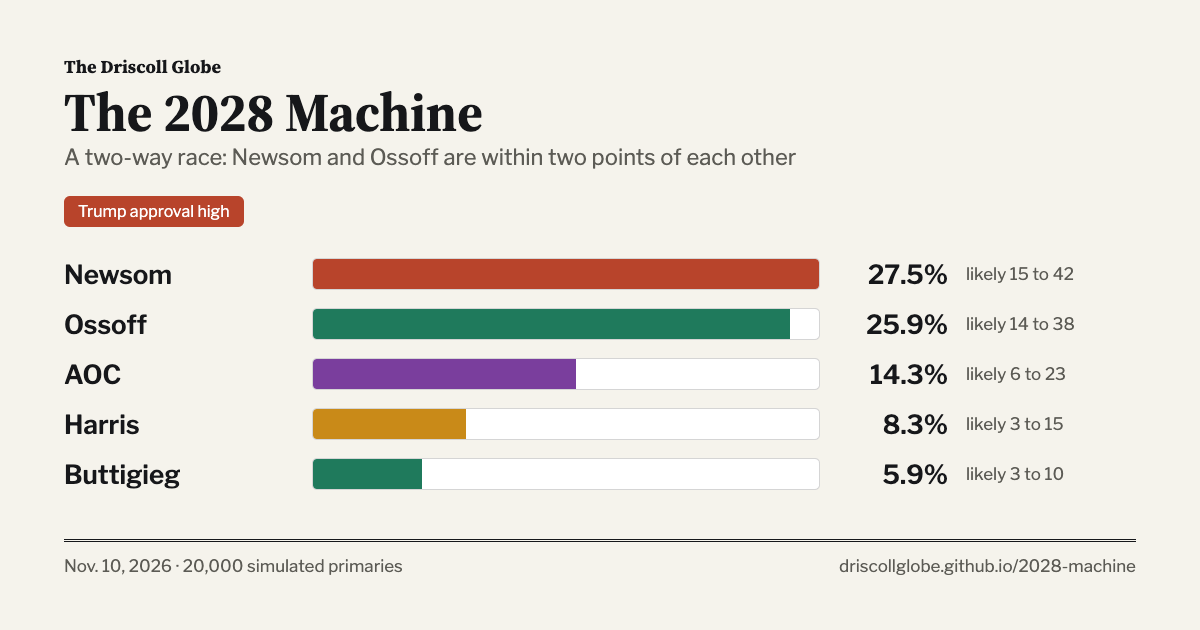
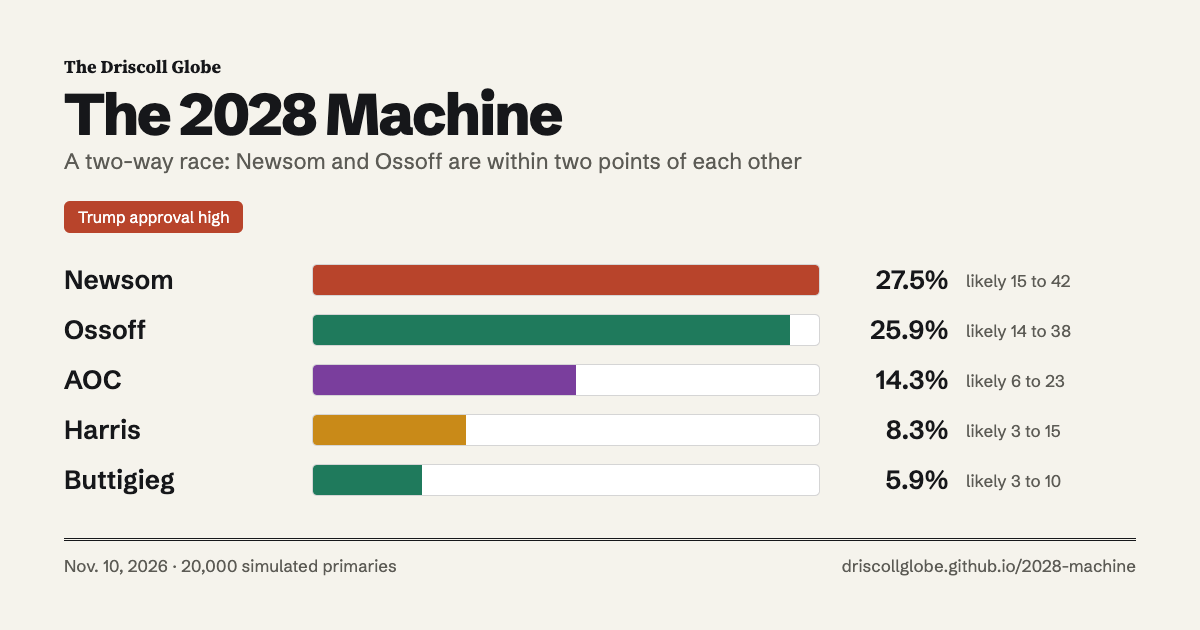
Flat layout and heavy grotesk display type: no cards, pills or rounded corners; Schibsted Grotesk replaces Libre Franklin

diff --git a/scripts/render_cards.js b/scripts/render_cards.js
@@ -31,20 +31,20 @@ function cardHtml(title, sub, rows, date, runs) {
   const bars = rows.map(r => '<div class="row"><div class="name">' + esc(r.name) + '</div>'
     + '<div class="track"><div class="fill" style="width:' + (r.pct / max * 100).toFixed(1) + '%;background:' + (POOL_COLOR[r.lane] || POOL_COLOR.out) + '"></div></div>'
     + '<div class="pct">' + r.pct.toFixed(1) + '%</div><div class="rng">' + (r.range ? 'likely ' + Math.round(r.range[0]) + ' to ' + Math.round(r.range[1]) : '') + '</div></div>').join('');
-  return '<!DOCTYPE html><html><head><meta charset="utf-8"><link href="https://fonts.googleapis.com/css2?family=Libre+Franklin:wght@400;500;600;700&family=Source+Serif+4:opsz,wght@8..60,400;8..60,600;8..60,700&display=swap" rel="stylesheet"><style>'
-    + 'body{margin:0;width:1200px;height:630px;background:#f5f3ec;color:#16171a;font-family:"Libre Franklin",-apple-system,"Segoe UI",Helvetica,Arial,sans-serif;overflow:hidden;}'
+  return '<!DOCTYPE html><html><head><meta charset="utf-8"><link href="https://fonts.googleapis.com/css2?family=Schibsted+Grotesk:wght@400;500;600;700;800&family=Source+Serif+4:opsz,wght@8..60,400;8..60,600;8..60,700&display=swap" rel="stylesheet"><style>'
+    + 'body{margin:0;width:1200px;height:630px;background:#f5f3ec;color:#16171a;font-family:"Schibsted Grotesk",-apple-system,"Segoe UI",Helvetica,Arial,sans-serif;overflow:hidden;}'
     + '.card{box-sizing:border-box;width:1200px;height:630px;padding:54px 64px;display:flex;flex-direction:column;}'
     + '.globe{font-family:"Source Serif 4",Georgia,serif;font-weight:700;font-size:18px;}'
-    + 'h1{font-family:"Source Serif 4",Georgia,serif;font-weight:700;font-size:54px;line-height:1.02;margin:6px 0 4px;}'
+    + 'h1{font-family:"Schibsted Grotesk",-apple-system,"Segoe UI",Helvetica,Arial,sans-serif;font-weight:800;letter-spacing:-.035em;font-size:58px;line-height:1.02;margin:6px 0 4px;}'
     + '.sub{font-size:22px;color:#5c5b55;margin-bottom:26px;}'
-    + '.lever{display:inline-block;font-family:"Libre Franklin",-apple-system,"Segoe UI",Helvetica,Arial,sans-serif;font-variant-numeric:tabular-nums;font-size:16px;background:#b8442b;color:#fff;padding:6px 14px;border-radius:6px;margin-bottom:22px;}'
+    + '.lever{display:inline-block;font-family:"Schibsted Grotesk",-apple-system,"Segoe UI",Helvetica,Arial,sans-serif;font-size:16px;background:#b8442b;color:#fff;padding:6px 14px;border-radius:6px;margin-bottom:22px;}'
     + '.row{display:flex;align-items:center;gap:18px;margin:9px 0;}'
     + '.name{width:230px;font-size:26px;font-weight:600;white-space:nowrap;overflow:hidden;text-overflow:ellipsis;}'
     + '.track{flex:1;height:30px;background:#fff;border:1.5px solid rgba(20,21,24,.18);border-radius:5px;overflow:hidden;}'
     + '.fill{height:100%;}'
-    + '.pct{width:110px;text-align:right;font-family:"Libre Franklin",-apple-system,"Segoe UI",Helvetica,Arial,sans-serif;font-variant-numeric:tabular-nums;font-size:26px;font-weight:600;}'
-    + '.rng{width:170px;font-family:"Libre Franklin",-apple-system,"Segoe UI",Helvetica,Arial,sans-serif;font-variant-numeric:tabular-nums;font-size:17px;color:#5c5b55;white-space:nowrap;}'
-    + '.foot{margin-top:auto;display:flex;justify-content:space-between;font-family:"Libre Franklin",-apple-system,"Segoe UI",Helvetica,Arial,sans-serif;font-variant-numeric:tabular-nums;font-size:17px;color:#5c5b55;border-top:3px double #16171a;padding-top:14px;}'
+    + '.pct{width:110px;text-align:right;font-family:"Schibsted Grotesk",-apple-system,"Segoe UI",Helvetica,Arial,sans-serif;font-size:26px;font-weight:600;}'
+    + '.rng{width:170px;font-family:"Schibsted Grotesk",-apple-system,"Segoe UI",Helvetica,Arial,sans-serif;font-size:17px;color:#5c5b55;white-space:nowrap;}'
+    + '.foot{margin-top:auto;display:flex;justify-content:space-between;font-family:"Schibsted Grotesk",-apple-system,"Segoe UI",Helvetica,Arial,sans-serif;font-size:17px;color:#5c5b55;border-top:3px double #16171a;padding-top:14px;}'
     + '</style></head><body><div class="card">'
     + '<div class="globe">The Driscoll Globe</div><h1>The 2028 Machine</h1>'
     + '<div class="sub">' + esc(sub) + '</div><div><span class="lever">' + esc(title) + '</span></div>'
@@ -131,14 +131,14 @@ async function main() {
 
 function noteCardHtml(n) {
   const size = n.text.length > 820 ? 23 : 25;
-  return '<!DOCTYPE html><html><head><meta charset="utf-8"><link href="https://fonts.googleapis.com/css2?family=Libre+Franklin:wght@400;500;600;700&family=Source+Serif+4:opsz,wght@8..60,400;8..60,600;8..60,700&display=swap" rel="stylesheet"><style>'
-    + 'body{margin:0;width:1200px;height:675px;background:#f5f3ec;color:#16171a;font-family:"Libre Franklin",-apple-system,"Segoe UI",Helvetica,Arial,sans-serif;overflow:hidden;}'
+  return '<!DOCTYPE html><html><head><meta charset="utf-8"><link href="https://fonts.googleapis.com/css2?family=Schibsted+Grotesk:wght@400;500;600;700;800&family=Source+Serif+4:opsz,wght@8..60,400;8..60,600;8..60,700&display=swap" rel="stylesheet"><style>'
+    + 'body{margin:0;width:1200px;height:675px;background:#f5f3ec;color:#16171a;font-family:"Schibsted Grotesk",-apple-system,"Segoe UI",Helvetica,Arial,sans-serif;overflow:hidden;}'
     + '.card{box-sizing:border-box;width:1200px;height:675px;padding:50px 64px;display:flex;flex-direction:column;}'
     + '.globe{font-family:"Source Serif 4",Georgia,serif;font-weight:700;font-size:18px;}'
-    + 'h1{font-family:"Source Serif 4",Georgia,serif;font-weight:700;font-size:40px;margin:6px 0 18px;}'
-    + '.lever{display:inline-block;font-family:"Libre Franklin",-apple-system,"Segoe UI",Helvetica,Arial,sans-serif;font-variant-numeric:tabular-nums;font-size:15px;background:#b8442b;color:#fff;padding:5px 12px;border-radius:6px;margin-bottom:18px;}'
+    + 'h1{font-family:"Schibsted Grotesk",-apple-system,"Segoe UI",Helvetica,Arial,sans-serif;font-weight:800;letter-spacing:-.035em;font-size:44px;margin:6px 0 18px;}'
+    + '.lever{display:inline-block;font-family:"Schibsted Grotesk",-apple-system,"Segoe UI",Helvetica,Arial,sans-serif;font-size:15px;background:#b8442b;color:#fff;padding:5px 12px;border-radius:6px;margin-bottom:18px;}'
     + 'p{font-family:"Source Serif 4",Georgia,serif;font-size:' + (size + 1) + 'px;line-height:1.42;margin:0;}'
-    + '.foot{margin-top:auto;display:flex;justify-content:space-between;font-family:"Libre Franklin",-apple-system,"Segoe UI",Helvetica,Arial,sans-serif;font-variant-numeric:tabular-nums;font-size:16px;color:#5c5b55;border-top:3px double #16171a;padding-top:12px;}'
+    + '.foot{margin-top:auto;display:flex;justify-content:space-between;font-family:"Schibsted Grotesk",-apple-system,"Segoe UI",Helvetica,Arial,sans-serif;font-size:16px;color:#5c5b55;border-top:3px double #16171a;padding-top:12px;}'
     + '</style></head><body><div class="card"><div class="globe">The Driscoll Globe</div><h1>The 2028 Machine</h1>'
     + '<div><span class="lever">Desk note · ' + esc(edDate(n.date)) + '</span></div><p>' + esc(n.text) + '</p>'
     + '<div class="foot"><span>The 2028 Machine · Updated nightly</span><span>' + SITE_LABEL + '</span></div></div></body></html>';

diff --git a/site.css b/site.css
@@ -1,11 +1,11 @@
-/* Shared look for the side pages (gap, track record, methodology, changelog).
-   index.html and moved.html carry the same tokens inline. Two faces: Source Serif 4 for headlines and long
-   prose, Libre Franklin for labels, tables and numbers. Labels are sentence case in grey, never spaced capitals. */
+/* Shared look for the side pages (gap, track record, methodology, changelog); index.html and moved.html carry the same
+   tokens inline. Schibsted Grotesk, heavy and tight, for titles, labels, tables and numbers; Source Serif 4 for the
+   kicker and long reading. Labels are sentence case in grey, never spaced capitals. */
 :root{
  --ink:#16171a;--paper:#f5f3ec;--panel:#ffffff;--rule:rgba(20,21,24,.14);
  --muted:#5c5b55;--faint:#6b6a63;--wire:#b8442b;--wire-soft:#f3ddd4;--tealx:#1f7a5c;--tealx-soft:#dcefe7;
- --rmd:7px;--rlg:11px;
- --serif:'Source Serif 4',Georgia,serif;--sans:'Libre Franklin',-apple-system,'Segoe UI',sans-serif;
+ --rmd:0px;--rlg:0px;
+ --serif:'Source Serif 4',Georgia,serif;--sans:'Schibsted Grotesk',-apple-system,'Segoe UI',sans-serif;
 }
 @media (prefers-color-scheme:dark){
  :root{--ink:#ecebe4;--paper:#15161a;--panel:#1d1e22;--rule:rgba(255,255,255,.15);--muted:#a6a59d;--faint:#8f8e86;--wire:#e06a4d;--wire-soft:#3a201a;--tealx:#6cc7a5;--tealx-soft:#16332a;}
@@ -20,35 +20,36 @@ a:hover{border-bottom-color:var(--wire);}
 /* masthead: the same on every page */
 .mast{border-bottom:3px double var(--ink);padding-bottom:.75rem;margin-bottom:.4rem;display:flex;justify-content:space-between;align-items:flex-end;gap:1rem;flex-wrap:wrap;}
 .mast .globe{font-family:var(--serif);font-weight:700;font-size:14px;}
-.mast h1{font-family:var(--serif);font-weight:700;font-size:34px;line-height:1.02;margin:.1rem 0 0;letter-spacing:-.01em;}
+.mast h1{font-family:var(--sans);font-weight:800;font-size:38px;line-height:1.02;margin:.1rem 0 0;letter-spacing:-.035em;}
 .mast h1 a{color:inherit;border:0;}
 .byline{font-size:13px;color:var(--muted);margin-top:.35rem;}
 .byline b{color:var(--ink);font-weight:600;}
-.mast-r{font-variant-numeric:tabular-nums;font-size:11px;color:var(--muted);text-align:right;line-height:1.5;}
+.mast-r{font-size:11px;color:var(--muted);text-align:right;line-height:1.5;}
 .nav{font-size:13px;color:var(--muted);margin:.2rem 0 1.4rem;display:flex;gap:14px;flex-wrap:wrap;}
 .nav a[aria-current]{color:var(--ink);border-bottom-color:var(--ink);font-weight:600;}
 
 /* page head */
-h2.pagetitle{font-family:var(--serif);font-weight:700;font-size:30px;line-height:1.1;margin:0 0 .35rem;letter-spacing:-.01em;}
+h2.pagetitle{font-family:var(--sans);font-weight:800;font-size:40px;line-height:1.05;margin:0 0 .5rem;letter-spacing:-.035em;}
 .dek{font-family:var(--serif);font-size:18px;line-height:1.5;color:var(--muted);max-width:720px;margin:0 0 1.4rem;}
-h2.s{font-family:var(--serif);font-weight:600;font-size:21px;margin:2rem 0 .6rem;}
+h2.s{font-family:var(--sans);font-weight:800;font-size:26px;letter-spacing:-.03em;margin:2.2rem 0 .6rem;}
 
 /* panels and tables */
-.section{border:1px solid var(--rule);border-radius:var(--rlg);background:var(--panel);padding:1rem 1.1rem;overflow-x:auto;}
-.shead{font-size:13px;color:var(--muted);margin-bottom:.75rem;display:flex;justify-content:space-between;gap:4px 12px;flex-wrap:wrap;}
-table{border-collapse:collapse;width:100%;font-size:13.5px;font-variant-numeric:tabular-nums;}
+.section{border:0;border-top:2px solid var(--ink);background:transparent;padding:.85rem 0 1.3rem;overflow-x:auto;}
+.shead{font-size:14px;font-weight:600;color:var(--ink);margin-bottom:.75rem;display:flex;justify-content:space-between;gap:4px 12px;flex-wrap:wrap;}
+.shead span+span{font-weight:400;color:var(--muted);}
+table{border-collapse:collapse;width:100%;font-size:13.5px;}
 th{font-size:12px;font-weight:500;color:var(--faint);text-align:right;padding:6px 8px;white-space:nowrap;border-bottom:1px solid var(--ink);}
 td{padding:7px 8px;text-align:right;border-top:1px solid var(--rule);vertical-align:top;}
 th:first-child,td:first-child{text-align:left;}
 .up{color:var(--tealx);}.down{color:var(--wire);}
 .legend{font-size:12px;color:var(--faint);margin-top:10px;line-height:1.55;}
-code{font-family:var(--sans);font-variant-numeric:tabular-nums;font-size:13px;background:var(--rule);padding:1px 5px;border-radius:4px;}
+code{font-family:var(--sans);font-size:13px;background:var(--rule);padding:1px 5px;border-radius:4px;}
 
 /* long reading: methodology and changelog bodies */
 .prose{font-family:var(--serif);font-size:17.5px;line-height:1.6;}
-.prose h2{font-family:var(--serif);font-weight:700;font-size:23px;margin:2.2rem 0 .4rem;}
+.prose h2{font-family:var(--sans);font-weight:800;font-size:24px;letter-spacing:-.025em;margin:2.2rem 0 .4rem;}
 .prose table,.prose dl,.prose .legend{font-family:var(--sans);}
 .prose table{font-size:13.5px;margin:10px 0 6px;}
 
 .foot{font-size:12.5px;color:var(--faint);border-top:1px solid var(--rule);padding-top:1rem;margin-top:2.5rem;line-height:1.6;}
-@media(max-width:600px){table{display:block;overflow-x:auto;}.mast-r{display:none;}.mast h1{font-size:30px;}h2.pagetitle{font-size:25px;}.dek{font-size:16.5px;}.prose{font-size:17px;}}
+@media(max-width:600px){table{display:block;overflow-x:auto;}.mast-r{display:none;}.mast h1{font-size:30px;}h2.pagetitle{font-size:30px;}.dek{font-size:16.5px;}.prose{font-size:17px;}}

diff --git a/index.html b/index.html
@@ -12,14 +12,14 @@
 <meta name="twitter:card" content="summary_large_image">
 <link rel="preconnect" href="https://fonts.googleapis.com">
 <link rel="preconnect" href="https://fonts.gstatic.com" crossorigin>
-<link href="https://fonts.googleapis.com/css2?family=Libre+Franklin:wght@400;500;600;700&family=Source+Serif+4:opsz,wght@8..60,400;8..60,600;8..60,700&display=swap" rel="stylesheet">
+<link href="https://fonts.googleapis.com/css2?family=Schibsted+Grotesk:wght@400;500;600;700;800&family=Source+Serif+4:opsz,wght@8..60,400;8..60,600;8..60,700&display=swap" rel="stylesheet">
 <style>
 :root{
  --ink:#16171a;--paper:#f5f3ec;--panel:#ffffff;--rule:rgba(20,21,24,.14);
  --muted:#5c5b55;--faint:#6b6a63;--wire:#b8442b;--wire-soft:#f3ddd4;
  --tealx:#1f7a5c;--tealx-soft:#dcefe7;--amber:#c98a18;--amber-soft:#f5e7c8;
  --rmd:7px;--rlg:11px;
- --serif:'Source Serif 4',Georgia,serif;--sans:'Libre Franklin',-apple-system,'Segoe UI',sans-serif;
+ --serif:'Source Serif 4',Georgia,serif;--sans:'Schibsted Grotesk',-apple-system,'Segoe UI',sans-serif;
  --p-anchor:#c98a18;--p-anchor-soft:#f5e7c8;--p-fight:#b8442b;--p-fight-soft:#f3ddd4;--p-suburb:#1f7a5c;--p-suburb-soft:#dcefe7;--p-working:#3b6ea5;--p-working-soft:#dbe6f3;--p-movement:#7a3e9d;--p-movement-soft:#e9dcf1;--p-out:#8c5a2b;--p-out-soft:#efe2d3;
 }
 @media (prefers-color-scheme:dark){
@@ -354,6 +354,50 @@ body.show-adv h2.s.adv{display:block;}
 #aggregate .shead>span:first-child{flex-shrink:0;}
 #aggregate .shead .note{min-width:0;white-space:nowrap;overflow:hidden;text-overflow:ellipsis;}
 @media(max-width:740px){#aggregate .shead{display:block;}#aggregate .shead>span:first-child{display:block;}#aggregate .shead .note{display:-webkit-box;-webkit-box-orient:vertical;-webkit-line-clamp:2;white-space:normal;line-height:1.45;height:2.9em;}}
+/* ==FLAT== newspaper layout: no cards, no pills, no rounded corners, no shadows.
+   Sections open on a heavy ink rule; inside them, hairlines. Buttons are plain rectangles; the main action is ink. */
+:root{--rmd:0px;--rlg:0px;--panel:var(--paper);--track:rgba(20,21,24,.07);}
+@media (prefers-color-scheme:dark){:root{--track:rgba(255,255,255,.09);}}
+.section{border:0;border-top:2px solid var(--ink);background:transparent;padding:.85rem 0 1.3rem;}
+.shead{color:var(--ink);font-weight:600;}
+.shead .note,.shead span+span{font-weight:400;color:var(--muted);}
+h2.s{margin:2.2rem 0 .35rem;font-size:22px;}
+.sb,.pollboard{background:transparent;border:0;border-top:1px solid var(--rule);padding:.6rem 0;}
+.cc{background:transparent;border:0;border-top:2px solid var(--ink);padding:.7rem 0 .4rem;transition:border-color .15s;}
+.cc:hover{border-color:var(--wire);}
+.cc .lane{background:transparent!important;border-left:3px solid currentColor;border-radius:0;padding:0 0 0 6px;font-weight:500;}
+.tagx{border-radius:0;}
+.bpchip{border:0;border-bottom:1px solid var(--wire);border-radius:0;background:transparent;padding:3px 0;margin-right:8px;}
+.bpchip:hover{border-bottom-color:var(--ink);color:var(--ink);}
+.btn{border-radius:0;}
+.btn:hover{box-shadow:none;background:var(--ink);color:var(--paper);}
+.btn.go{background:var(--ink);border-color:var(--ink);color:var(--paper);}
+.btn.go:hover{background:var(--wire);border-color:var(--wire);color:#fff;}
+.desknote{border:0;border-top:2px solid var(--ink);background:transparent;padding:.75rem 0 .9rem;margin:0 0 1.2rem;}
+.desknote .dnlabel{color:var(--ink);}
+.desknote p{font-family:var(--serif);font-size:17px;line-height:1.55;}
+.bpalert{background:transparent;border-left:2px solid var(--wire);}
+.final{border:0;border-top:2px solid var(--wire);border-bottom:1px solid var(--rule);}
+.sharecard{border-width:1px;}
+.bt,.abt,.mr .mtrack,.rbart{background:var(--track);border:0;border-radius:0;}
+.rbarf{border-radius:0;}
+.hmwrap::after{background:linear-gradient(to right,transparent,var(--paper));}
+/* ==2027== big grotesk display type over the flat layout: heavy, tight headlines and numbers,
+   serif kept for the kicker and for reading. */
+.mast-l h1,.mast h1{font-family:var(--sans);font-weight:800;letter-spacing:-.035em;font-size:38px;}
+.hero-num{font-family:var(--sans);font-weight:800;font-size:112px;line-height:116px;height:116px;letter-spacing:-.05em;}
+@media(max-width:740px){.hero-num{font-size:68px;line-height:74px;height:74px;}}
+.hero-dek{font-size:15.5px;color:var(--ink);font-weight:500;}
+.hero-para{font-size:18px;line-height:1.55;}
+h2.s{font-family:var(--sans);font-weight:800;font-size:30px;letter-spacing:-.03em;line-height:1.1;}
+.shead{font-size:14.5px;}
+.mr .mshare{font-weight:700;letter-spacing:-.02em;}
+.hero-side .hs-row span:first-child{font-weight:700;}
+.sticky .st-title{font-family:var(--sans);font-weight:800;letter-spacing:-.03em;}
+.cc .nm{font-weight:700;letter-spacing:-.01em;font-size:15.5px;}
+.desknote p{font-size:17.5px;}
+/* Schibsted's tabular figures set periods, commas and colons a full digit wide ("Nov . 10"), so figures stay proportional */
+*{font-variant-numeric:normal!important;}
 </style>
 </head>
 <body>

diff --git a/moved.html b/moved.html
@@ -6,14 +6,14 @@
 <title>What moved | The 2028 Machine</title>
 <link rel="preconnect" href="https://fonts.googleapis.com">
 <link rel="preconnect" href="https://fonts.gstatic.com" crossorigin>
-<link href="https://fonts.googleapis.com/css2?family=Libre+Franklin:wght@400;500;600;700&family=Source+Serif+4:opsz,wght@8..60,400;8..60,600;8..60,700&display=swap" rel="stylesheet">
+<link href="https://fonts.googleapis.com/css2?family=Schibsted+Grotesk:wght@400;500;600;700;800&family=Source+Serif+4:opsz,wght@8..60,400;8..60,600;8..60,700&display=swap" rel="stylesheet">
 <style>
 :root{
  --ink:#16171a;--paper:#f5f3ec;--panel:#ffffff;--rule:rgba(20,21,24,.14);
  --muted:#5c5b55;--faint:#6b6a63;--wire:#b8442b;--wire-soft:#f3ddd4;
  --tealx:#1f7a5c;--tealx-soft:#dcefe7;--amber:#c98a18;--amber-soft:#f5e7c8;
  --rmd:7px;--rlg:11px;
- --serif:'Source Serif 4',Georgia,serif;--sans:'Libre Franklin',-apple-system,'Segoe UI',sans-serif;
+ --serif:'Source Serif 4',Georgia,serif;--sans:'Schibsted Grotesk',-apple-system,'Segoe UI',sans-serif;
  --p-anchor:#c98a18;--p-anchor-soft:#f5e7c8;--p-fight:#b8442b;--p-fight-soft:#f3ddd4;--p-suburb:#1f7a5c;--p-suburb-soft:#dcefe7;--p-working:#3b6ea5;--p-working-soft:#dbe6f3;--p-movement:#7a3e9d;--p-movement-soft:#e9dcf1;--p-out:#8c5a2b;--p-out-soft:#efe2d3;
 }
 @media (prefers-color-scheme:dark){
@@ -328,6 +328,50 @@ body.show-adv h2.s.adv{display:block;}
 .foot{font-size:12.5px;color:var(--faint);border-top:1px solid var(--rule);padding-top:1rem;margin-top:2rem;line-height:1.6;}
 @media(max-width:360px){.mr .mstats{flex-wrap:wrap;padding-left:0;}}
 .pagedek{font-size:15px;color:var(--muted);max-width:680px;margin:0 0 1rem;}
+/* ==FLAT== newspaper layout: no cards, no pills, no rounded corners, no shadows.
+   Sections open on a heavy ink rule; inside them, hairlines. Buttons are plain rectangles; the main action is ink. */
+:root{--rmd:0px;--rlg:0px;--panel:var(--paper);--track:rgba(20,21,24,.07);}
+@media (prefers-color-scheme:dark){:root{--track:rgba(255,255,255,.09);}}
+.section{border:0;border-top:2px solid var(--ink);background:transparent;padding:.85rem 0 1.3rem;}
+.shead{color:var(--ink);font-weight:600;}
+.shead .note,.shead span+span{font-weight:400;color:var(--muted);}
+h2.s{margin:2.2rem 0 .35rem;font-size:22px;}
+.sb,.pollboard{background:transparent;border:0;border-top:1px solid var(--rule);padding:.6rem 0;}
+.cc{background:transparent;border:0;border-top:2px solid var(--ink);padding:.7rem 0 .4rem;transition:border-color .15s;}
+.cc:hover{border-color:var(--wire);}
+.cc .lane{background:transparent!important;border-left:3px solid currentColor;border-radius:0;padding:0 0 0 6px;font-weight:500;}
+.tagx{border-radius:0;}
+.bpchip{border:0;border-bottom:1px solid var(--wire);border-radius:0;background:transparent;padding:3px 0;margin-right:8px;}
+.bpchip:hover{border-bottom-color:var(--ink);color:var(--ink);}
+.btn{border-radius:0;}
+.btn:hover{box-shadow:none;background:var(--ink);color:var(--paper);}
+.btn.go{background:var(--ink);border-color:var(--ink);color:var(--paper);}
+.btn.go:hover{background:var(--wire);border-color:var(--wire);color:#fff;}
+.desknote{border:0;border-top:2px solid var(--ink);background:transparent;padding:.75rem 0 .9rem;margin:0 0 1.2rem;}
+.desknote .dnlabel{color:var(--ink);}
+.desknote p{font-family:var(--serif);font-size:17px;line-height:1.55;}
+.bpalert{background:transparent;border-left:2px solid var(--wire);}
+.final{border:0;border-top:2px solid var(--wire);border-bottom:1px solid var(--rule);}
+.sharecard{border-width:1px;}
+.bt,.abt,.mr .mtrack,.rbart{background:var(--track);border:0;border-radius:0;}
+.rbarf{border-radius:0;}
+.hmwrap::after{background:linear-gradient(to right,transparent,var(--paper));}
+/* ==2027== big grotesk display type over the flat layout: heavy, tight headlines and numbers,
+   serif kept for the kicker and for reading. */
+.mast-l h1,.mast h1{font-family:var(--sans);font-weight:800;letter-spacing:-.035em;font-size:38px;}
+.hero-num{font-family:var(--sans);font-weight:800;font-size:112px;line-height:116px;height:116px;letter-spacing:-.05em;}
+@media(max-width:740px){.hero-num{font-size:68px;line-height:74px;height:74px;}}
+.hero-dek{font-size:15.5px;color:var(--ink);font-weight:500;}
+.hero-para{font-size:18px;line-height:1.55;}
+h2.s{font-family:var(--sans);font-weight:800;font-size:30px;letter-spacing:-.03em;line-height:1.1;}
+.shead{font-size:14.5px;}
+.mr .mshare{font-weight:700;letter-spacing:-.02em;}
+.hero-side .hs-row span:first-child{font-weight:700;}
+.sticky .st-title{font-family:var(--sans);font-weight:800;letter-spacing:-.03em;}
+.cc .nm{font-weight:700;letter-spacing:-.01em;font-size:15.5px;}
+.desknote p{font-size:17.5px;}
+/* Schibsted's tabular figures set periods, commas and colons a full digit wide ("Nov . 10"), so figures stay proportional */
+*{font-variant-numeric:normal!important;}
 </style>
 </head>
 <body>

diff --git a/track.html b/track.html
@@ -6,10 +6,10 @@
 <title>Track Record | The 2028 Machine</title>
 <link rel="preconnect" href="https://fonts.googleapis.com">
 <link rel="preconnect" href="https://fonts.gstatic.com" crossorigin>
-<link href="https://fonts.googleapis.com/css2?family=Libre+Franklin:wght@400;500;600;700&family=Source+Serif+4:opsz,wght@8..60,400;8..60,600;8..60,700&display=swap" rel="stylesheet">
+<link href="https://fonts.googleapis.com/css2?family=Schibsted+Grotesk:wght@400;500;600;700;800&family=Source+Serif+4:opsz,wght@8..60,400;8..60,600;8..60,700&display=swap" rel="stylesheet">
 <link rel="stylesheet" href="site.css">
 <style>
-canvas{display:block;width:100%;height:auto;border:1px solid var(--rule);border-radius:var(--rlg);background:var(--panel);}
+canvas{display:block;width:100%;height:auto;border-top:2px solid var(--ink);border-bottom:1px solid var(--rule);}
 #legend{display:flex;flex-wrap:wrap;gap:6px 14px;font-size:13px;margin:12px 0 8px;color:inherit;}
 #legend span{display:inline-flex;align-items:center;gap:6px;}
 .sw{width:22px;height:3px;display:inline-block;}
@@ -76,7 +76,7 @@ function draw(d){
  let max=10;d.forEach(r=>IDS.forEach(id=>{max=Math.max(max,r.m[id]||0,r.k[id]||0);}));max=Math.ceil(max/10)*10;
  const x=i=>P.l+(d.length<2?0:(W-P.l-P.r)*i/(d.length-1));
  const y=v=>H-P.b-(H-P.t-P.b)*v/max;
- ctx.strokeStyle=cv0('--rule');ctx.fillStyle=cv0('--faint');ctx.font="11px 'Libre Franklin', system-ui, sans-serif";
+ ctx.strokeStyle=cv0('--rule');ctx.fillStyle=cv0('--faint');ctx.font="11px 'Schibsted Grotesk', system-ui, sans-serif";
  for(let g=0;g<=max;g+=10){ctx.beginPath();ctx.moveTo(P.l,y(g));ctx.lineTo(W-P.r,y(g));ctx.stroke();ctx.fillText(g+'%',6,y(g)+4);}
  const step=Math.max(1,Math.floor(d.length/8));
  d.forEach((r,i)=>{if(i%step===0||i===d.length-1){const t=edDate(r.date,false);ctx.fillText(t,Math.max(P.l-16,Math.min(x(i)-16,W-ctx.measureText(t).width-2)),H-8);}});

diff --git a/changelog.html b/changelog.html
@@ -6,12 +6,12 @@
 <title>Changelog | The 2028 Machine</title>
 <link rel="preconnect" href="https://fonts.googleapis.com">
 <link rel="preconnect" href="https://fonts.gstatic.com" crossorigin>
-<link href="https://fonts.googleapis.com/css2?family=Libre+Franklin:wght@400;500;600;700&family=Source+Serif+4:opsz,wght@8..60,400;8..60,600;8..60,700&display=swap" rel="stylesheet">
+<link href="https://fonts.googleapis.com/css2?family=Schibsted+Grotesk:wght@400;500;600;700;800&family=Source+Serif+4:opsz,wght@8..60,400;8..60,600;8..60,700&display=swap" rel="stylesheet">
 <link rel="stylesheet" href="site.css">
 <style>
 .entry{border-top:1px solid var(--rule);padding:1.3rem 0 .5rem;scroll-margin-top:12px;}
 .entry:target{background:var(--panel);box-shadow:0 0 0 12px var(--panel);}
-.entry h2{font-family:var(--serif);font-weight:700;font-size:23px;line-height:1.2;margin:0 0 .15rem;}
+.entry h2{font-family:var(--sans);font-weight:800;font-size:24px;letter-spacing:-.025em;line-height:1.15;margin:0 0 .2rem;}
 .entry .d{font-family:var(--sans);font-size:12.5px;color:var(--faint);}
 .entry p{margin:.7rem 0;}
 </style>

diff --git a/methodology.html b/methodology.html
@@ -8,7 +8,7 @@
      (inputs frozen in methodology/: markets 2026-11-08, anchor fit of that day, approval 38). -->
 <link rel="preconnect" href="https://fonts.googleapis.com">
 <link rel="preconnect" href="https://fonts.gstatic.com" crossorigin>
-<link href="https://fonts.googleapis.com/css2?family=Libre+Franklin:wght@400;500;600;700&family=Source+Serif+4:opsz,wght@8..60,400;8..60,600;8..60,700&display=swap" rel="stylesheet">
+<link href="https://fonts.googleapis.com/css2?family=Schibsted+Grotesk:wght@400;500;600;700;800&family=Source+Serif+4:opsz,wght@8..60,400;8..60,600;8..60,700&display=swap" rel="stylesheet">
 <link rel="stylesheet" href="site.css">
 <style>
 .sub{font-family:var(--sans);font-size:13px;color:var(--muted);margin:0 0 1.2rem;}

diff --git a/gap.html b/gap.html
@@ -6,7 +6,7 @@
 <title>The Gap | The 2028 Machine</title>
 <link rel="preconnect" href="https://fonts.googleapis.com">
 <link rel="preconnect" href="https://fonts.gstatic.com" crossorigin>
-<link href="https://fonts.googleapis.com/css2?family=Libre+Franklin:wght@400;500;600;700&family=Source+Serif+4:opsz,wght@8..60,400;8..60,600;8..60,700&display=swap" rel="stylesheet">
+<link href="https://fonts.googleapis.com/css2?family=Schibsted+Grotesk:wght@400;500;600;700;800&family=Source+Serif+4:opsz,wght@8..60,400;8..60,600;8..60,700&display=swap" rel="stylesheet">
 <link rel="stylesheet" href="site.css">
 <style>
 th{cursor:pointer;user-select:none;}
